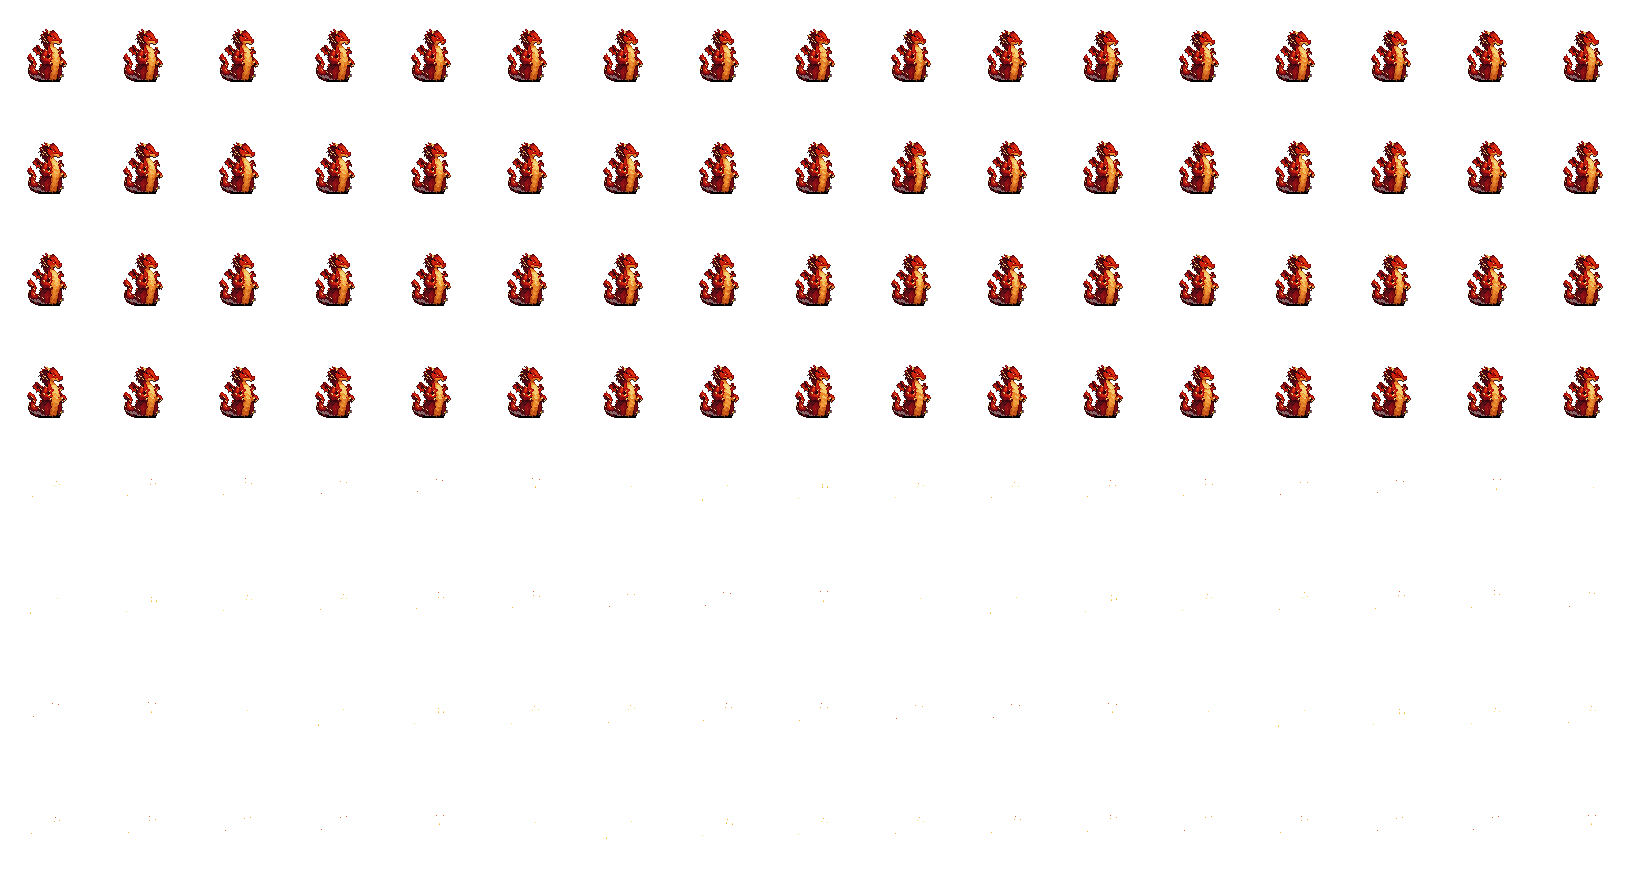
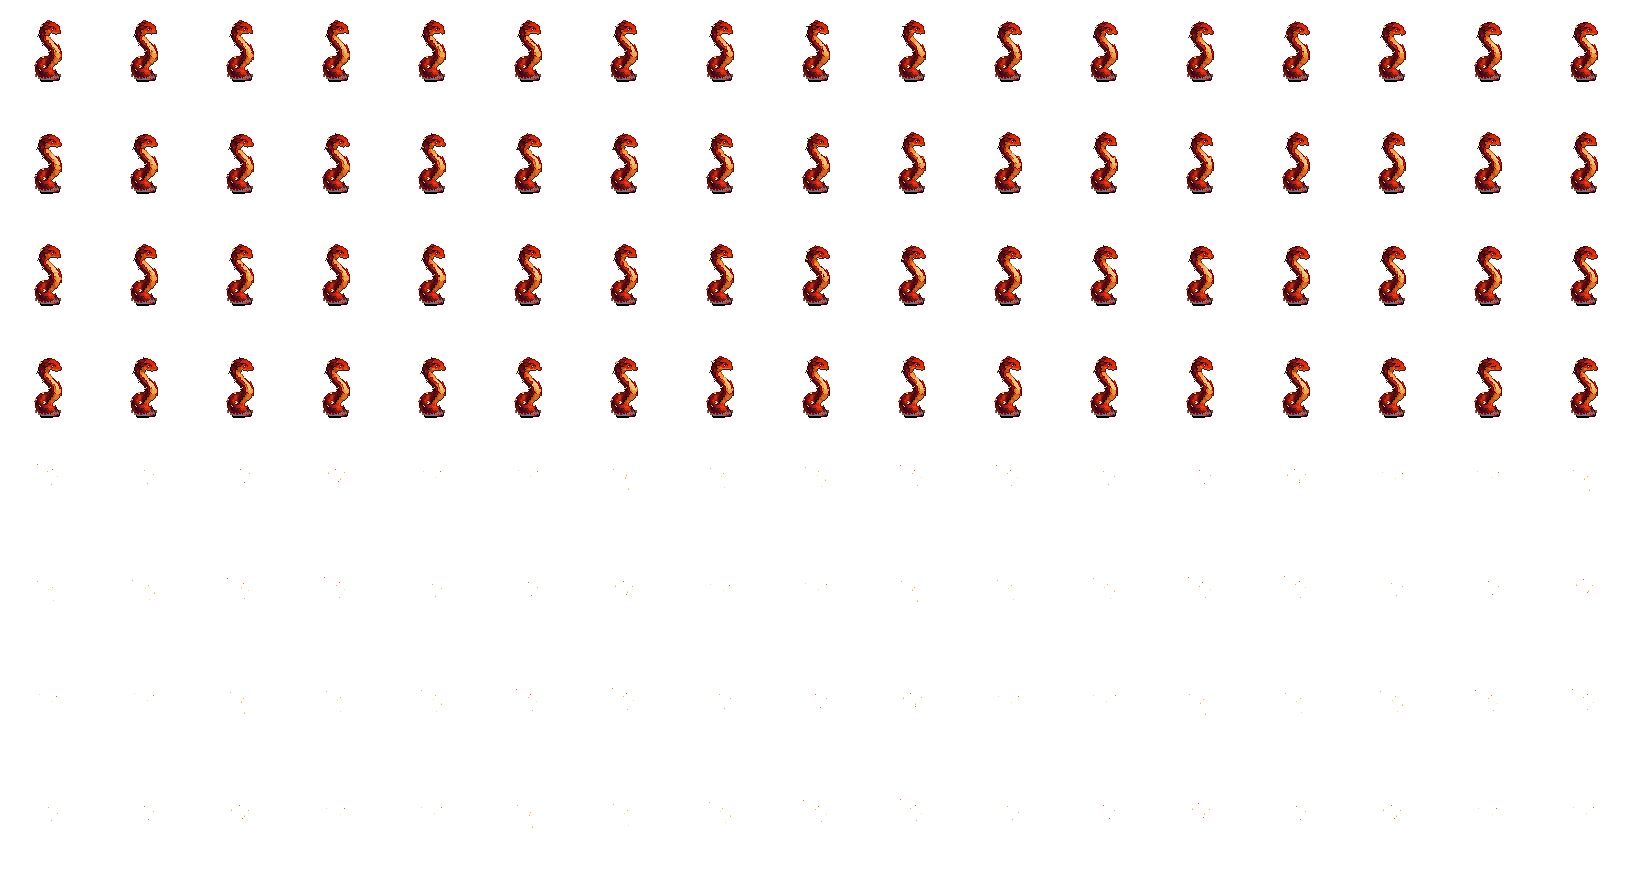
용 둘 진화 그림 새로(드레이크캑터 뱀 → 이무기 → 용 · 프로스트드레이크 알 → 깨어나는 새끼 → 새끼 용, 30종 모두 단계 그림) · 드레이크캑터 성체 꼬리만 190칸 위로(partmove.py) · 이무기 고리 안 배경 지움 + greycut 막힌 구멍 경고 · 새 식물 아홉 원화 받음 (사용자 '일단 용만 코덱스로' · '꼬리만 위로' · '꼬리 말린 가운데 배경')

diff --git a/v2/src/art/sprites.js b/v2/src/art/sprites.js
@@ -13,7 +13,7 @@ function load(src) { return new Promise(res => { const i = new Image(); i.onload
 
 // 옛 48×56 도트(assets/sprites)는 처음 12종만 · 생장 단계 그림(_young · _teen)도 있는 종만 부름 — 새 종(2026-10-16 프로스트벨 등)은 성체 그림 하나(없는 파일을 부르지 않게)
 // 생장 단계 그림이 있는 종(어린 · 자람 둘 다 — 하나만 있으면 그 단계만 바뀜). 새로 그리면 여기에 더함(2026-10-17)
-export const STAGED_KEYS = ROSTER.filter(k => k !== 'frost_drake');   // 프로스트드레이크(2026-10-17 새 종)는 어린 · 자람 그림이 오면 넣음   // 2026-10-17 모든 종(29) 어린 · 자람 그림 있음
+export const STAGED_KEYS = ROSTER;   // 2026-10-17 모든 종(30) 어린 · 자람 그림 있음 — 프로스트드레이크 = 알 → 깨어나는 새끼 → 새끼 용(같은 날 받음)
 const V1 = ROSTER.slice(0, 12), STAGED = new Set(STAGED_KEYS);
 export async function loadSprites(base = '../assets/sprites/') {
   const keys = [...V1, ...EXTRA, ...POTS];

diff --git a/tools/pixel/big/partmove.py b/tools/pixel/big/partmove.py
@@ -1,0 +1,29 @@
+# 원화에서 몸 한 부분만 떼어 옮기기(2026-10-17 사용자 "성체 용 꼬리가 이상해 — 위로 꼬리만" · 드레이크캑터 꼬리 190칸 위로)
+#   python tools/pixel/big/partmove.py <원화.png> <결과.png> <seed_x> <seed_y> <cut_x> <dx> <dy>
+#   x < cut_x 쪽에서 seed 칸과 이어진 덩어리(알파 > 16 · 8방향)만 떼어 (dx, dy)만큼 옮겨 위에 덮음 — 떼어 낸 자리는 비움
+#   몸에 붙은 곳은 cut_x 세로 줄로 자르므로, 옮길 부분이 다른 부분(날개 등)과 배경으로 떨어져 있어야 함(확대해 보고 정할 것)
+import sys
+sys.stdout.reconfigure(encoding="utf-8")
+import numpy as np
+from PIL import Image
+from scipy import ndimage
+src, dst = sys.argv[1], sys.argv[2]
+sx, sy, cut, dx, dy = (int(v) for v in sys.argv[3:8])
+im = np.array(Image.open(src).convert('RGBA'))
+H, W = im.shape[:2]
+a = im[..., 3]
+xx = np.mgrid[0:H, 0:W][1]
+lab, _ = ndimage.label((a > 16) & (xx < cut), structure=np.ones((3, 3)))
+assert lab[sy, sx] > 0, 'seed 칸이 비었음'
+part = ndimage.binary_dilation(lab == lab[sy, sx], iterations=2) & (a > 0) & (xx < cut + 2)
+ys, xs = np.where(part)
+print('옮길 칸', int(part.sum()), '범위', xs.min(), xs.max(), ys.min(), ys.max())
+out = im.copy()
+out[part] = 0
+piece = np.zeros_like(im)
+ny, nx = ys + dy, xs + dx
+ok = (ny >= 0) & (ny < H) & (nx >= 0) & (nx < W)
+piece[ny[ok], nx[ok]] = im[ys[ok], xs[ok]]
+A = Image.fromarray(out)
+A.alpha_composite(Image.fromarray(piece))
+A.save(dst)

diff --git a/docs/CHANGELOG.md b/docs/CHANGELOG.md
@@ -2,6 +2,12 @@
 
 > CLAUDE.md에서 분리한 전체 개발 로그. 최신 작업이 맨 위. 과거 맥락이 필요할 때만 읽으세요.
 
+### 2026-10-17 (47) — 용 둘 진화 그림 새로(뱀 → 이무기 → 용 · 알 → 깨어나는 새끼 → 새끼 용) · 드레이크캑터 성체 꼬리만 위로 · 배경 빼기 '막힌 구멍' 경고
+- **진화(사용자 "일단 용만 좀 수정해줘 코덱스로"):** 코덱스가 `stages_raw2/`에 넷 → greycut → 눈 다시 잼(`eyes.mjs` drake_cactus_young · teen 새 값, frost_drake_young · teen 새로) → 흙 앉히기(SINK 드레이크 3 · 3, 프로스트 5 · 4 — 말린 꼬리 · 알이라 덜/더) · 뱀 줄기 STEM +2 → 묶음. 프로스트드레이크도 단계 그림이 생겨 `STAGED_KEYS = ROSTER`(30종 모두).
+- **이무기 고리 안 배경(사용자 "중간 용 꼬리 말린 가운데 부분이 하얀색에 배경이 있어"):** 고리 안 배경이 그늘져 greycut 기본 허용치(0.012) 밖이라 남았음 → `--hole=0.035`로 지움. greycut이 이제 지운 배경과 안 닿은 배경 같은 색 덩어리(140칸 이상 · 90% 거리 < 0.045)를 경고(`⚠ 막힌 곳에 배경 같은 색`) — 옅은 꽃잎도 걸릴 수 있어 확대해 보고 판단(plant-sprite 스킬).
+- **성체 꼬리(사용자 "성체 용 꼬리가 이상해 — 위로 꼬리만"):** 꼬리 아래 고리가 화분 테 밖으로 처져 있었음 → 원화에서 꼬리 덩어리만 190칸 위로(`tools/pixel/big/partmove.py` — 몸통 왼쪽 x<435 · 날개와 떨어진 덩어리, 140 · 190 비교 후 화분 밖 칸 82 → 26인 190), 다시 묶음.
+- 새 식물 아홉 그림(성체 + 어린 · 자람 18) 받음 — `concept/new9/` · `stages_raw2/`(게임 넣기는 다음). 기술 그림 96장 요청서 `concept/skill/SKILL_EXTRA_PROMPT.md` 코덱스 진행 중.
+
 ### 2026-10-17 (46) — 변이 상성 들어감(변이끼리 · 변이 ↔ 속성 · 무기 종류 일곱) · 새 무기 카드 셋(화염 방사 · 로켓포 · 석궁)
 - **사용자 결정(안 3 · "ㄱㄱ"):** `battle/matchup.js formMult` — 피해 배율 = 속성 상성(×1.5) × 변이 상성. 변이끼리 다섯 바퀴(무기 → 포식 → 포자 → 독성 → 용족 → 무기, ×1.25) · 맞는 쪽 변이의 약한 속성(늘, ×1.25) · 치는 쪽 변이 기술의 센 속성(×1.25) · **무기 = 무기 종류마다 셈 ×1.25 · 안 듦 ×0.8**(칼 · 망치 · 총 · 화염방사 · 번개 창 · 로켓포 · 석궁 — 번개 무기 말고는 물에 안 듦, 사용자 "총은 바람에 약한 걸로" · "물을 공격할 수가 없잖아"). 치는 쪽 상성은 변이 카드 기술 · 태생 변이 개성 기술만. `rules.js`가 기술을 같이 넘김(1:1 · 3:3), 유닛에 변이(`form`), 봇은 배율이 좋은 기술을 더 · 안 드는 기술은 덜, 화면 = '효과 굉장!'(속성) · '상성!'(변이) · '안 듦'(무기).
 - **새 무기 카드(사용자 "화염방사도 넣자" · "무기에 광역으로 로켓포도 넣고 석궁도"):** 화염 방사(불 · 멀리 · 여럿 · 화상 · 50 × 2) · 로켓포(여럿 · 60 × 1) · 석궁(85 × 2) — 수치 임시, 카드는 내가 만들고 사용자가 검토. 공격 연출 = 불길 뿜기 · 쏘아 터짐 · 한 발 저격, 카드 그림은 코덱스 차례.

diff --git a/.claude/skills/plant-sprite/SKILL.md b/.claude/skills/plant-sprite/SKILL.md
@@ -10,6 +10,7 @@ description: 풀로세움 v2 식물 도트 그림을 만들 때(새 종 추가·
 
 ## 1. 컨셉(코덱스) — 비용: 새로 그리기 장당 5시간 한도 약 1~3%p, 참고 그림을 주고 그리기·편집 장당 약 4~8%p
 - 새 종 = **밝은 단색 회색 배경(#d9d9d9)·화분·흙·그림자 없이, 밑동은 흙 높이에서 깔끔히 끝나게** 요청(2026-10-17부터 — 투명 누끼 요청은 그림 품질이 떨어짐. 예 `concept\new3\NEW3_PROMPT.md`: 정면 몸 + 머리 20° 옆 · 시선 자연스럽게 · 상징 하나를 크게 · 몸에서 떨어진 효과 선 금지 · "Do not open any image file"). 받은 그림 → `node tools/pixel/big/greycut.mjs <원본> concept\cut\<키>.png [--main]`(--main = 몸에서 떨어진 바람 줄 · 물보라 지움 — 줄이면 점가루가 됨). ~~처음부터 누끼(실제 알파)~~(2026-10-15 방식).
+  - ⚠ greycut이 `막힌 곳에 배경 같은 색 … 칸` 경고를 내면 그 칸을 확대해 본다 — 배경(말린 꼬리 · 팔 사이 고리 안, 그늘져 회색이 짙음)이면 알려 준 `--hole=`로 다시, 옅은 꽃잎 · 흰 무늬면 그대로(2026-10-17 사용자 "중간 용 꼬리 말린 가운데 부분이 하얀색에 배경이 있어" — 이무기 고리 안 배경이 기본 허용치 0.012 밖이라 남았음, `--hole=0.035`로 지움).
 - 옛 컨셉(화분 있음)은 그대로 두고, 화분 색 지우기로 밑동이 깨지면 그 종만 **코덱스 편집 누끼**(`concept\CUT_PROMPT*.md` 형식 — "식물은 그대로, 화분·흙·자갈·그림자만 지우고 밑동을 흙 선에서 마감, 위치 이동 금지"). 위치가 그대로라 눈 좌표·흙 기준은 원래 컨셉에서 잰 값을 그대로 쓴다.
 - 실행: `node "C:/dev/codex-plugin-cc/plugins/codex/scripts/codex-companion.mjs" task --write --cwd "C:/dev/pulloseum" --prompt-file "tools/pixel/big/concept/<요청>.md"`(백그라운드). 사용량은 `~\.codex\sessions\...\rollout-*.jsonl`의 token_count(rate_limits)로 전후를 재서 보고.
 
